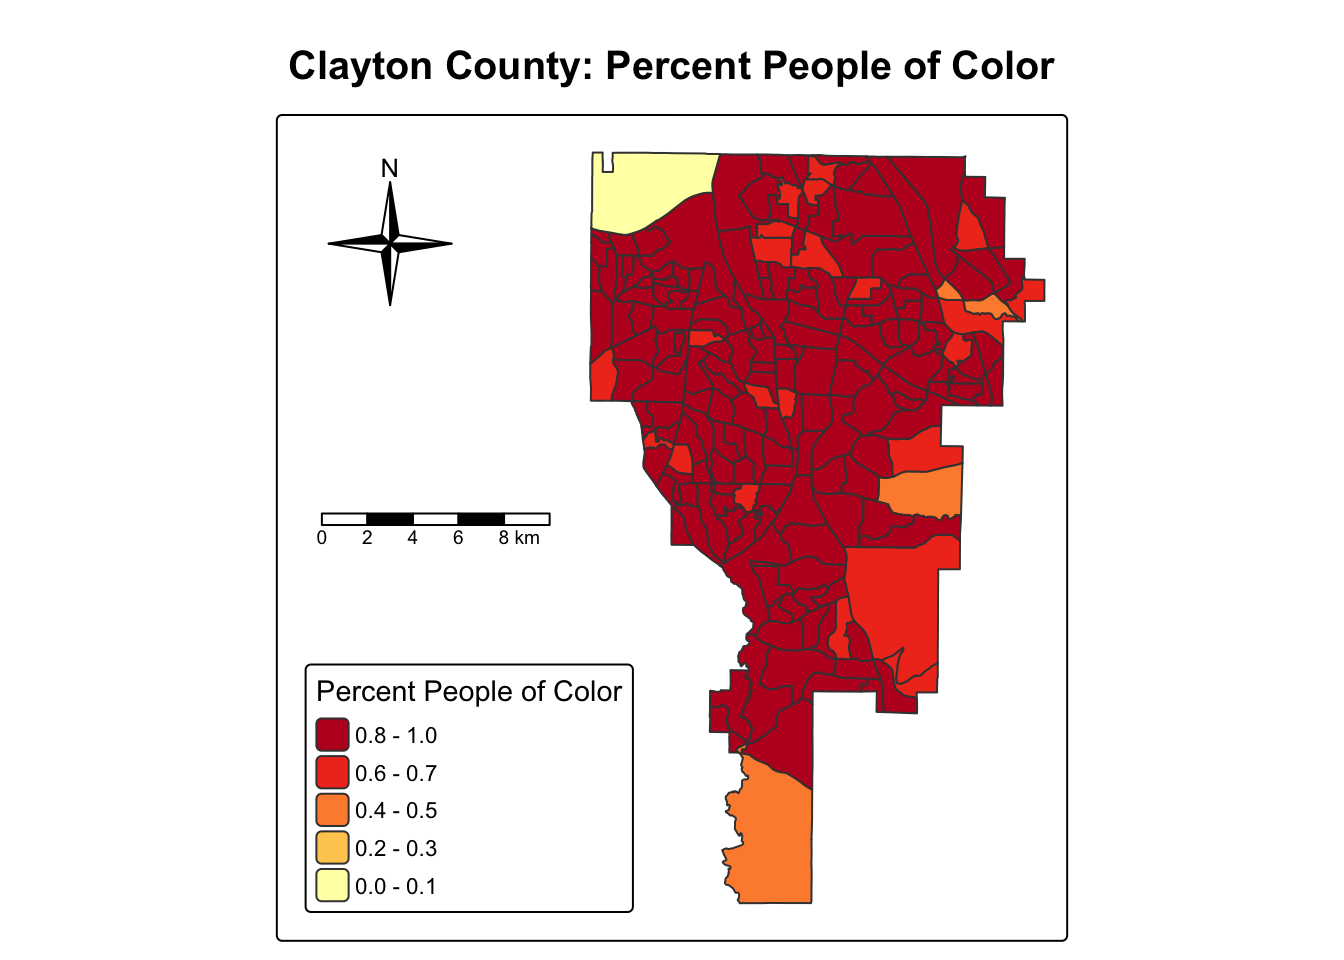
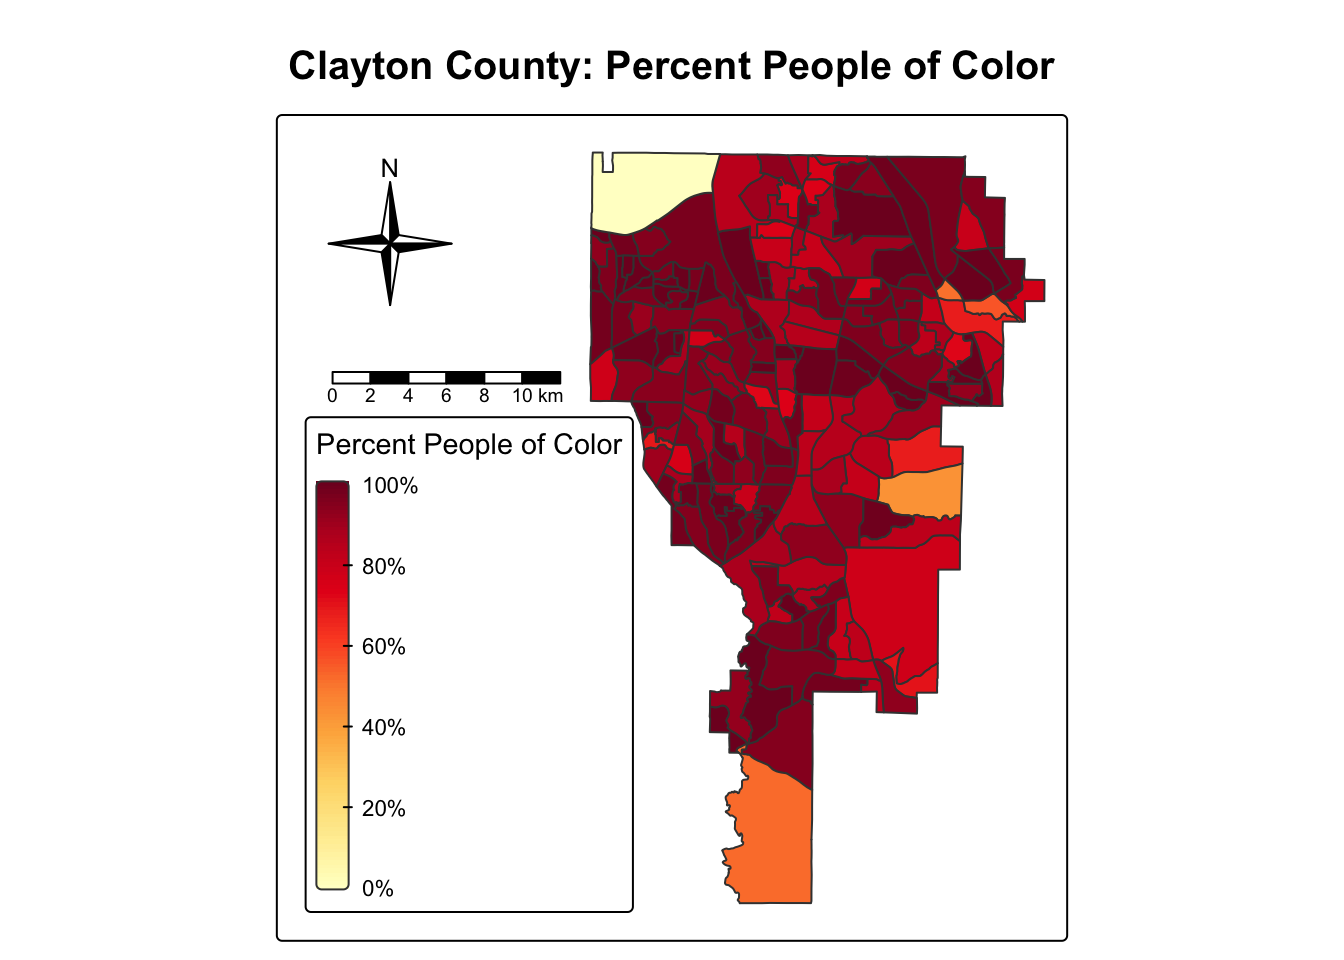
Update aesthetics

Changed region(s): [[0.2188, 0.1562, 0.7812, 0.9375]]

diff --git a/eds223-hw1/ej_screen.html b/eds223-hw1/ej_screen.html
@@ -133,15 +133,16 @@ Projected CRS: WGS 84 / Pseudo-Mercator</code></pre>
 <div class="cell">
 <div class="sourceCode cell-code" id="cb5"><pre class="sourceCode r code-with-copy"><code class="sourceCode r"><span id="cb5-1"><a href="#cb5-1" aria-hidden="true" tabindex="-1"></a><span class="co"># Create first map</span></span>
 <span id="cb5-2"><a href="#cb5-2" aria-hidden="true" tabindex="-1"></a><span class="fu">tm_shape</span>(clayton) <span class="sc">+</span></span>
-<span id="cb5-3"><a href="#cb5-3" aria-hidden="true" tabindex="-1"></a>  <span class="fu">tm_crs</span>(<span class="dv">4326</span>) <span class="sc">+</span> <span class="co"># Specify crs</span></span>
-<span id="cb5-4"><a href="#cb5-4" aria-hidden="true" tabindex="-1"></a>  <span class="fu">tm_polygons</span>(<span class="at">fill =</span> <span class="st">"PEOPCOLORPCT"</span>,</span>
-<span id="cb5-5"><a href="#cb5-5" aria-hidden="true" tabindex="-1"></a>              <span class="at">fill.scale =</span> <span class="fu">tm_scale</span>(<span class="at">values =</span> <span class="st">'brewer.yl_or_rd'</span>),</span>
-<span id="cb5-6"><a href="#cb5-6" aria-hidden="true" tabindex="-1"></a>              <span class="at">fill.legend =</span> <span class="fu">tm_legend</span>(<span class="at">title =</span> <span class="st">"Percent People of Color"</span>, <span class="at">reverse =</span> <span class="cn">TRUE</span>)) <span class="sc">+</span></span>
-<span id="cb5-7"><a href="#cb5-7" aria-hidden="true" tabindex="-1"></a>  <span class="fu">tm_title</span>(<span class="at">text =</span> <span class="st">"Clayton County: Percent People of Color"</span>, <span class="at">fontface =</span> <span class="st">'bold'</span>) <span class="sc">+</span></span>
-<span id="cb5-8"><a href="#cb5-8" aria-hidden="true" tabindex="-1"></a>  <span class="fu">tm_compass</span>(<span class="at">position =</span> <span class="fu">c</span>(<span class="st">"left"</span>, <span class="st">"top"</span>), <span class="at">type =</span> <span class="st">'4star'</span>) <span class="sc">+</span> <span class="co"># Add compass</span></span>
-<span id="cb5-9"><a href="#cb5-9" aria-hidden="true" tabindex="-1"></a>  <span class="fu">tm_scalebar</span>(<span class="at">position =</span> <span class="fu">c</span>(<span class="st">"left"</span>, <span class="st">"center"</span>), <span class="at">text.size =</span> <span class="fl">0.6</span>) <span class="sc">+</span> <span class="co"># Add scale bar</span></span>
-<span id="cb5-10"><a href="#cb5-10" aria-hidden="true" tabindex="-1"></a>  <span class="fu">tm_layout</span>(<span class="at">legend.position =</span> <span class="fu">c</span>(<span class="st">"left"</span>, <span class="st">"bottom"</span>), </span>
-<span id="cb5-11"><a href="#cb5-11" aria-hidden="true" tabindex="-1"></a>            <span class="at">inner.margins =</span> <span class="fu">c</span>(<span class="fl">0.05</span>, <span class="fl">0.69</span>, <span class="fl">0.05</span>, <span class="fl">0.05</span>)) </span></code><button title="Copy to Clipboard" class="code-copy-button"><i class="bi"></i></button></pre></div>
+<span id="cb5-3"><a href="#cb5-3" aria-hidden="true" tabindex="-1"></a>  <span class="fu">tm_polygons</span>(<span class="at">fill =</span> <span class="st">"PEOPCOLORPCT"</span>,</span>
+<span id="cb5-4"><a href="#cb5-4" aria-hidden="true" tabindex="-1"></a>              <span class="at">fill.scale =</span> <span class="fu">tm_scale_continuous</span>(<span class="at">values =</span> <span class="st">'brewer.yl_or_rd'</span>),</span>
+<span id="cb5-5"><a href="#cb5-5" aria-hidden="true" tabindex="-1"></a>              <span class="at">fill.legend =</span> <span class="fu">tm_legend</span>(<span class="at">title =</span> <span class="st">"Percent People of Color"</span>,</span>
+<span id="cb5-6"><a href="#cb5-6" aria-hidden="true" tabindex="-1"></a>                                      <span class="at">reverse =</span> <span class="cn">TRUE</span>,</span>
+<span id="cb5-7"><a href="#cb5-7" aria-hidden="true" tabindex="-1"></a>                                      <span class="at">labels =</span> <span class="fu">c</span>(<span class="st">"100%"</span>, <span class="st">"80%"</span>, <span class="st">"60%"</span>, <span class="st">"40%"</span>, <span class="st">"20%"</span>, <span class="st">"0%"</span>))) <span class="sc">+</span></span>
+<span id="cb5-8"><a href="#cb5-8" aria-hidden="true" tabindex="-1"></a>  <span class="fu">tm_title</span>(<span class="at">text =</span> <span class="st">"Clayton County: Percent People of Color"</span>, <span class="at">fontface =</span> <span class="st">'bold'</span>) <span class="sc">+</span></span>
+<span id="cb5-9"><a href="#cb5-9" aria-hidden="true" tabindex="-1"></a>  <span class="fu">tm_compass</span>(<span class="at">position =</span> <span class="fu">c</span>(<span class="st">"left"</span>, <span class="st">"top"</span>), <span class="at">type =</span> <span class="st">'4star'</span>) <span class="sc">+</span> <span class="co"># Add compass</span></span>
+<span id="cb5-10"><a href="#cb5-10" aria-hidden="true" tabindex="-1"></a>  <span class="fu">tm_scalebar</span>(<span class="at">position =</span> <span class="fu">c</span>(<span class="fl">0.05</span>, <span class="fl">0.71</span>), <span class="at">text.size =</span> <span class="fl">0.6</span>) <span class="sc">+</span> <span class="co"># Add scale bar</span></span>
+<span id="cb5-11"><a href="#cb5-11" aria-hidden="true" tabindex="-1"></a>  <span class="fu">tm_layout</span>(<span class="at">legend.position =</span> <span class="fu">c</span>(<span class="st">"left"</span>, <span class="st">"bottom"</span>), </span>
+<span id="cb5-12"><a href="#cb5-12" aria-hidden="true" tabindex="-1"></a>            <span class="at">inner.margins =</span> <span class="fu">c</span>(<span class="fl">0.05</span>, <span class="fl">0.69</span>, <span class="fl">0.05</span>, <span class="fl">0.05</span>)) </span></code><button title="Copy to Clipboard" class="code-copy-button"><i class="bi"></i></button></pre></div>
 <div class="cell-output-display">
 <div>
 <figure class="figure">
@@ -153,15 +154,16 @@ Projected CRS: WGS 84 / Pseudo-Mercator</code></pre>
 <div class="cell">
 <div class="sourceCode cell-code" id="cb6"><pre class="sourceCode r code-with-copy"><code class="sourceCode r"><span id="cb6-1"><a href="#cb6-1" aria-hidden="true" tabindex="-1"></a><span class="co"># Create second map</span></span>
 <span id="cb6-2"><a href="#cb6-2" aria-hidden="true" tabindex="-1"></a><span class="fu">tm_shape</span>(clayton) <span class="sc">+</span></span>
-<span id="cb6-3"><a href="#cb6-3" aria-hidden="true" tabindex="-1"></a>  <span class="fu">tm_crs</span>(<span class="dv">4326</span>) <span class="sc">+</span></span>
-<span id="cb6-4"><a href="#cb6-4" aria-hidden="true" tabindex="-1"></a>  <span class="fu">tm_polygons</span>(<span class="at">fill =</span> <span class="st">"RESP"</span>,</span>
-<span id="cb6-5"><a href="#cb6-5" aria-hidden="true" tabindex="-1"></a>              <span class="at">fill.scale =</span> <span class="fu">tm_scale</span>(<span class="at">values =</span> <span class="st">'brewer.yl_or_rd'</span>),</span>
-<span id="cb6-6"><a href="#cb6-6" aria-hidden="true" tabindex="-1"></a>              <span class="at">fill.legend =</span> <span class="fu">tm_legend</span>(<span class="at">title =</span> <span class="st">"Respiratory Hazard Index"</span>, <span class="at">reverse =</span> <span class="cn">TRUE</span>)) <span class="sc">+</span></span>
-<span id="cb6-7"><a href="#cb6-7" aria-hidden="true" tabindex="-1"></a>  <span class="fu">tm_title</span>(<span class="at">text =</span> <span class="st">"Clayton County: Respiratory Hazard Index"</span>, <span class="at">fontface =</span> <span class="st">'bold'</span>) <span class="sc">+</span></span>
-<span id="cb6-8"><a href="#cb6-8" aria-hidden="true" tabindex="-1"></a>  <span class="fu">tm_compass</span>(<span class="at">position =</span> <span class="fu">c</span>(<span class="st">"left"</span>, <span class="st">"top"</span>), <span class="at">type =</span> <span class="st">'4star'</span>) <span class="sc">+</span></span>
-<span id="cb6-9"><a href="#cb6-9" aria-hidden="true" tabindex="-1"></a>  <span class="fu">tm_scalebar</span>(<span class="at">position =</span> <span class="fu">c</span>(<span class="fl">0.05</span>, <span class="fl">0.65</span>), <span class="at">text.size =</span> <span class="fl">0.6</span>) <span class="sc">+</span></span>
-<span id="cb6-10"><a href="#cb6-10" aria-hidden="true" tabindex="-1"></a>  <span class="fu">tm_layout</span>(<span class="at">legend.position =</span> <span class="fu">c</span>(<span class="st">"left"</span>, <span class="st">"bottom"</span>),</span>
-<span id="cb6-11"><a href="#cb6-11" aria-hidden="true" tabindex="-1"></a>            <span class="at">inner.margins =</span> <span class="fu">c</span>(<span class="fl">0.05</span>, <span class="fl">0.9</span>, <span class="fl">0.05</span>, <span class="fl">0.05</span>))</span></code><button title="Copy to Clipboard" class="code-copy-button"><i class="bi"></i></button></pre></div>
+<span id="cb6-3"><a href="#cb6-3" aria-hidden="true" tabindex="-1"></a>  <span class="fu">tm_polygons</span>(<span class="at">fill =</span> <span class="st">"RESP"</span>,</span>
+<span id="cb6-4"><a href="#cb6-4" aria-hidden="true" tabindex="-1"></a>              <span class="at">fill.scale =</span> <span class="fu">tm_scale_continuous</span>(<span class="at">values =</span> <span class="st">'brewer.yl_or_rd'</span>),</span>
+<span id="cb6-5"><a href="#cb6-5" aria-hidden="true" tabindex="-1"></a>              <span class="at">fill.legend =</span> <span class="fu">tm_legend</span>(<span class="at">title =</span> <span class="st">"Respiratory Hazard Index"</span>,</span>
+<span id="cb6-6"><a href="#cb6-6" aria-hidden="true" tabindex="-1"></a>                                      <span class="at">reverse =</span> <span class="cn">TRUE</span>,</span>
+<span id="cb6-7"><a href="#cb6-7" aria-hidden="true" tabindex="-1"></a>                                      <span class="at">height =</span> <span class="dv">18</span>)) <span class="sc">+</span></span>
+<span id="cb6-8"><a href="#cb6-8" aria-hidden="true" tabindex="-1"></a>  <span class="fu">tm_title</span>(<span class="at">text =</span> <span class="st">"Clayton County: Respiratory Hazard Index"</span>, <span class="at">fontface =</span> <span class="st">'bold'</span>) <span class="sc">+</span></span>
+<span id="cb6-9"><a href="#cb6-9" aria-hidden="true" tabindex="-1"></a>  <span class="fu">tm_compass</span>(<span class="at">position =</span> <span class="fu">c</span>(<span class="st">"left"</span>, <span class="st">"top"</span>), <span class="at">type =</span> <span class="st">'4star'</span>) <span class="sc">+</span></span>
+<span id="cb6-10"><a href="#cb6-10" aria-hidden="true" tabindex="-1"></a>  <span class="fu">tm_scalebar</span>(<span class="at">position =</span> <span class="fu">c</span>(<span class="fl">0.05</span>, <span class="fl">0.75</span>), <span class="at">text.size =</span> <span class="fl">0.6</span>) <span class="sc">+</span></span>
+<span id="cb6-11"><a href="#cb6-11" aria-hidden="true" tabindex="-1"></a>  <span class="fu">tm_layout</span>(<span class="at">legend.position =</span> <span class="fu">c</span>(<span class="st">"left"</span>, <span class="st">"bottom"</span>),</span>
+<span id="cb6-12"><a href="#cb6-12" aria-hidden="true" tabindex="-1"></a>            <span class="at">inner.margins =</span> <span class="fu">c</span>(<span class="fl">0.05</span>, <span class="fl">0.9</span>, <span class="fl">0.05</span>, <span class="fl">0.05</span>))</span></code><button title="Copy to Clipboard" class="code-copy-button"><i class="bi"></i></button></pre></div>
 <div class="cell-output-display">
 <div>
 <figure class="figure">
@@ -170,7 +172,7 @@ Projected CRS: WGS 84 / Pseudo-Mercator</code></pre>
 </div>
 </div>
 </div>
-<p>The state of Georgia has some of the nation’s worst air quality according to the <a href="https://www.lung.org/research/sota/city-rankings/states/georgia">American Lung Association</a>. Additionally, <a href="https://blackdemographics.com/population/black-state-population/">Black Demographics</a> has ranked Georgia as second highest percent black population in the US. The first map shows this distribution of percent people of color by county, concentrated around central Georgia and south-western parts as well. The second map shows the distribution of the EPA’s AirToxScreen respiratory hazard index, derived from measuring toxic pollutants in ambient outdoor air. The hazard index is a unit-less measurement of the risk for developing non-cancer respiratory illnesses like asthma and bronchitis. The most hazardous counties lie in close proximity to counties with higher percentage of black populations which shows one example of environmental injustice that black communities face in the US.</p>
+<p>The state of Georgia has some of the nation’s worst air quality according to the <a href="https://www.lung.org/research/sota/city-rankings/states/georgia">American Lung Association</a>. Additionally, <a href="https://blackdemographics.com/population/black-state-population/">Black Demographics</a> has ranked Georgia as second highest percent black population in the US. The first map shows this distribution of percent people of color in Clayton County, concentrated in northern parts of the county. The second map shows the distribution of the EPA’s AirToxScreen respiratory hazard index, derived from measuring toxic pollutants in ambient outdoor air. The hazard index is a unit-less measurement of the risk for developing non-cancer respiratory illnesses like asthma and bronchitis. The most hazardous districts lie in close proximity to districts with higher percentage of black populations which shows one example of environmental injustice that black communities face in the US.</p>
 </section>
 
 </main>
